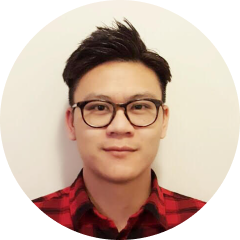
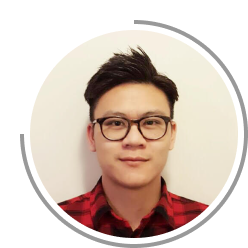
Update

diff --git a/index.html b/index.html
@@ -6,140 +6,149 @@
 		<link rel="preconnect" href="https://fonts.googleapis.com">
 		<link rel="preconnect" href="https://fonts.gstatic.com" crossorigin>
 		<link href="https://fonts.googleapis.com/css2?family=Poppins:wght@300;600&display=swap" rel="stylesheet">
+				<style>
+			body{
+				background: #1A1A1A url('img/bg.png');
+				color: #FAFAFA;
+			}
+
+			.shadow-container{
+		    align-items: center;
+		    background: radial-gradient(circle, rgba(0,0,0,0) 0%, rgba(0,0,0,0.25) 60%, rgba(13,13,13,1) 100%);
+		    display: flex;
+				height: 100vh;
+				justify-content: center;
+				width:  100vw;
+			}
+
+			.content-container {
+				background: #1A1A1A;
+				border: 1px solid #2a2a2a;
+				border-radius: 16px;
+				box-shadow: 20px 20px 240px #000000;
+				padding: 32px 32px 24px;
+				position: relative;
+				width: 280px;	
+			}
+
+			.content-container:before {
+				background: url("img/graphic-2.png");
+				background-size: contain;
+				content: "";
+				height: 80px;
+				left: -98px;
+				position: absolute;
+				top: 56px;
+				width: 158px;
+				z-index: -1;
+			}
+
+			.content-container:after {
+				background: url("img/graphic-1.png");
+				background-repeat:  no-repeat;
+				background-size: contain;
+				bottom: -48px;
+				content: "";
+				height: 120px;
+				right: -98px;
+				position: absolute;
+				width: 126px;
+				z-index: -1;
+			}
+
+			.img-container {
+				margin-bottom: 16px;
+			}
+
+			.img-container img {
+				margin-left: -10px;
+				margin-top: -10px;
+			}
+
+			hr {
+				border: 1px solid #FAFAFA;
+				margin: 32px 210px 24px 0;
+			}
+
+			* {
+				font: 1em/1.5 'Poppins', sans-serif;
+				margin: 0;
+			}
+
+			h1 {
+				font-size:  2em;
+				font-weight: 600;
+			}
+
+			h2{
+				margin-bottom: 32px;
+				font-weight:  300;
+			}
+
+			a {
+				border-radius: 4px;
+				color: #FFE500;
+			}
+
+			a:hover {
+				background-color:  #2A2A2A;
+				margin-left: -4px;
+				margin-right: -4px;
+				padding: 2px 4px;
+			}
+
+			a:focus {
+				background-color: #2a2a2a;
+				margin-left: -4px;
+				margin-right: -4px;
+				outline: 1px solid #FFE500;
+				outline-offset: 1px;
+				padding: 2px 4px;
+			}
+
+			a.links {
+				display: flex;
+				background-repeat: no-repeat;
+				background-position: 12px center;
+				margin-left: -12px;
+				margin-right:  -12px;
+				padding: 8px 12px 8px 48px;
+			}
+
+			a.links:hover {
+				margin-left: -12px;
+				margin-right:  -12px;
+				padding: 8px 12px 8px 48px;
+			}
+
+			a.resume {
+				background-image: url("img/download.svg");
+			}
+	
+			a.linkedin {
+				background-image: url("img/linkedin.svg");
+			}
+
+			a.email {
+				background-image: url("img/email.svg");
+			}
+		</style>
 	</head>
-		
-		<style>
-		body{
-			background: #1A1A1A;
-			color: #FAFAFA;
-			font-family: 'Poppins', sans-serif;
-			display: flex;
-			align-items: center;
-  justify-content: center;
-		}
-
-		* {
-			font-size: 1em;
-			line-height: 1.5;
-			margin: 0;
-		}
-
-		h1 {
-			font-size:  2em;
-			font-weight: 600;
-		}
-
-		h2{
-			margin-bottom: 32px;
-			font-weight:  300;
-		}
-
-		a {
-			color: #FFE500;
-		}
-
-		a:hover {
-			background-color:  #2a2a2a;
-		}
-		a:focus {
-			    outline-color: #FFE500;
-    outline-width: 1px;
-    outline-offset: 1px;
-    outline-style: solid;
-		}
-
-		.container {
-			width:  280px;
-			padding: 32px 32px 24px;
-			border:  1px solid #2a2a2a;
-			border-radius: 16px;
-			box-shadow: 20px 20px 120px #000000;
-
-		}
-
-		.links-container {
-			display: flex;
-			flex-direction: column;
-		}
-
-		hr {
-			margin:  32px 210px 24px 0;
-			border: 1px solid #FAFAFA;
-		}
-
-.img-container {margin-bottom: 16px;}
-
-a.clio:hover {
-	padding: 2px 4px;
-	margin-left: -4px;
-	margin-right: -4px;
-}
-
-a.clio:focus {
-	background-color: #2a2a2a;
-	padding: 2px 4px;
-	margin-left: -4px;
-	margin-right: -4px;
-}
-
-a {border-radius: 4px}
-
-	</style>
-	<div class="container">
-	<div class="img-container">
-		<img 
-		alt="Philip Wong thumbnail" 
-		height="104" 
-		src="img/profile.png" 
-		width="104" 
-		class="center"
-	/>
-</div>
-	<h1>
-		Philip Wong 
-	</h1>
-	<h2>Product Designer</h2>
-	<p>
-		I'm currently solving billing & collections problems for legal professionals at <a class="clio" href="https://www.clio.com">Clio</a>.
-	</p>
-<hr>
-<div class="links-container">
-<style>
-	.resume, .linkedin, .email {
-		background-image: url("img/download.svg");
-		background-repeat: no-repeat;
-		background-position-y: center;
-
-		background-position-x: 12px;
-		padding: 8px 12px 8px 48px;
-	border-radius: 8px;
-	margin-left: -12px;
-		margin-right:  -12px;
-	}
-
-	.resume:hover, .linkedin:hover, .email:hover   {
-		background-color: #2a2a2a;
-		
-	}
-
-	.linkedin {
-		background-image: url("img/linkedin.svg");
-
-	}
-
-	.email {
-		background-image: url("img/email.svg");
-
-
-
-	}
-</style>
-<a class="resume" href="/download/philip-resume.pdf">View resume</a>
-<a class="linkedin" href="https://www.linkedin.com/in/philipwong67
-">Linkedin Profile</a>
-<a class="email" href="mailto:pwon67@gmail.com">Email me</a>
-</div>
-</div>
-
+	<div class="shadow-container">
+		<div class="content-container">
+			<div class="img-container">
+				<img alt="Philip Wong thumbnail" height="124" src="img/profile.png" width="124" />
+			</div>
+			<h1>Philip Wong</h1>
+			<h2>Product Designer</h2>
+			<p>
+				I'm currently solving billing & collections problems for legal professionals at <a href="https://www.clio.com">Clio</a>.
+			</p>
+			<hr>
+			<a class="links resume" href="download/philip-resume.pdf">View Resume</a>
+			<a class="links linkedin" href="https://www.linkedin.com/in/philipwong67">View Linkedin</a>
+			<a class="links email" href="mailto:pwon67@gmail.com">Email Me</a>
+		</div>
+	</div>
 
 </html>
